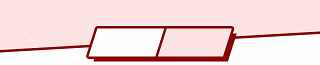
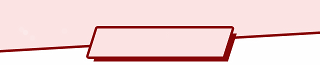
Adds the ability to submit an order

Changed region(s): [[0.2812, 0.4308, 0.5312, 0.8923]]

diff --git a/MasterViewController.m b/MasterViewController.m
@@ -12,7 +12,9 @@
 #import "LocationTabViewController.h"
 #import "OrderTabViewController.h"
 #import "FavoritesViewController.h"
+#import "Order.h"
 #import "OrderManager.h"
+#import "PaymentStack.h"
 #import "AppData.h"
 #import "CustomTabBarController.h"
 
@@ -91,6 +93,8 @@
     
     OrderTabViewController *orderTabViewController = [[OrderTabViewController alloc] initWithOrderManager:[appData theOrderManager]];
     
+    [[NSNotificationCenter defaultCenter] addObserver:self selector:@selector(placeOrder:) name:ORDER_PLACEMENT_REQUESTED object:[appData theOrderManager]];
+    
     UINavigationController *orderTabNavigationController = [[UINavigationController alloc] initWithRootViewController:orderTabViewController];
     [orderTabNavigationController setHidesBottomBarWhenPushed:YES];
     
@@ -121,6 +125,35 @@
     [masterView putUpLoadingView];
     [appData initializeFromServer];
     [masterView performSelector:@selector(dissolveLoadingView) withObject:nil afterDelay:2];
+}
+
+-(void) placeOrder:(NSNotification *) aNotification
+{
+    if ([[aNotification object] isKindOfClass:[OrderManager class]]) {
+        
+        PaymentStack* paymentStack = 
+        [[PaymentStack alloc] initWithOrder:[[aNotification object] thisOrder] locationState:[appData locationState]
+                               successBlock:^{
+                                   //Push the current order on the history list
+                                   [[appData ordersHistory] addObject:[[aNotification object] thisOrder]];
+                                   if ([[[aNotification object] thisOrder] isEffectivelyEqual:[[appData theOrderManager] thisOrder]])
+                                   {
+                                       //Allocate a new order
+                                       [[appData theOrderManager] setOrder:[[Order alloc] init]];
+                                   }
+                               }
+                            completionBlock:^{
+                                [self dismissModalViewControllerAnimated:YES];
+                            } 
+                          cancellationBlock:^{
+                              [self dismissModalViewControllerAnimated:YES];
+                          }];
+        modalController = [paymentStack navigationController];
+        [self presentModalViewController:modalController animated:YES];
+    }
+    else {
+        CLLog(LOG_LEVEL_ERROR, @"An object not of type OrderManager was sent to MasterViewController's placeOrder:  omgwtfhax. That is all.");
+    }
 }
 
 @end

diff --git a/OrderSectionFooterView.m b/OrderSectionFooterView.m
@@ -8,13 +8,11 @@
 
 #import "OrderSectionFooterView.h"
 
-NSString *EDIT_BUTTON_PRESSED = @"EDIT_BUTTON_PRESSED";
 NSString *PLACE_BUTTON_PRESSED = @"PLACE_BUTTON_PRESSED";
 
 @implementation OrderSectionFooterView
 
 @synthesize placeLabel;
-@synthesize editLabel;
 
 - (id)initWithFrame:(CGRect)frame
 {
@@ -25,34 +23,19 @@ NSString *PLACE_BUTTON_PRESSED = @"PLACE_BUTTON_PRESSED";
         [self addSubview:footerImage];
         
         placeLabel = [UIButton buttonWithType:UIButtonTypeCustom];
-        editLabel = [UIButton buttonWithType:UIButtonTypeCustom];
         
-        [placeLabel setFrame:CGRectMake(96, 27, 60, 30)];
+        [placeLabel setFrame:CGRectMake(102, 27, 120, 30)];
         [placeLabel setTitleColor:[UIColor blackColor] forState:UIControlStateNormal];
         [[placeLabel titleLabel] setFont:[UIFont fontWithName:@"AmericanTypewriter" size:20]];
         [[placeLabel titleLabel] setTextColor:[UIColor blackColor]];
         [placeLabel setBackgroundColor:[UIColor clearColor]];
-        [placeLabel setTitle:@"Place" forState:UIControlStateNormal];
+        [placeLabel setTitle:@"Place Order" forState:UIControlStateNormal];
         
-        [editLabel setFrame:CGRectMake(164, 27, 60, 30)];
-        [editLabel setTitleColor:[UIColor blackColor] forState:UIControlStateNormal];
-        [[editLabel titleLabel] setFont:[UIFont fontWithName:@"AmericanTypewriter" size:20]];
-        [[editLabel titleLabel] setTextColor:[UIColor blackColor]];
-        [editLabel setBackgroundColor:[UIColor clearColor]];
-        [editLabel setTitle:@"Edit" forState:UIControlStateNormal];
-        
-        [editLabel addTarget:self action:@selector(editButtonPressed) forControlEvents:UIControlEventTouchUpInside];
         [placeLabel addTarget:self action:@selector(placeButtonPressed) forControlEvents:UIControlEventTouchUpInside];
         
-        [self addSubview:editLabel];
         [self addSubview:placeLabel];
     }
     return self;
-}
-
--(void) editButtonPressed
-{
-    [[NSNotificationCenter defaultCenter] postNotificationName:EDIT_BUTTON_PRESSED object:self];
 }
 
 -(void) placeButtonPressed

diff --git a/OrderTabViewController.m b/OrderTabViewController.m
@@ -19,6 +19,8 @@
 #import "Item.h"
 #import "Menu.h"
 
+NSString *ORDER_PLACEMENT_REQUESTED = @"CroutonLabs/OrderPlacementRequested";
+
 @implementation OrderTabViewController
 
 -(id)initWithOrderManager:(OrderManager *)anOrderManager
@@ -30,7 +32,6 @@
         orderRenderer = [[ShinyOrderTabRenderer alloc] initWithOrderManager:theOrderManager];
         
         [[NSNotificationCenter defaultCenter] addObserver:self selector:@selector(updateOrderSection) name:ORDER_MODIFIED object:[theOrderManager thisOrder]];
-        [[NSNotificationCenter defaultCenter] addObserver:self selector:@selector(editButtonPressed) name:EDIT_BUTTON_PRESSED object:orderRenderer];
         [[NSNotificationCenter defaultCenter] addObserver:self selector:@selector(placeButtonPressed) name:PLACE_BUTTON_PRESSED object:orderRenderer];
         
         [[orderView orderTable] setDelegate:self];
@@ -198,8 +199,13 @@
 
 -(void) addItem:(NSNotification *) notification
 {
+    if (([[[theOrderManager thisOrder] itemList] count] + [[[theOrderManager thisOrder] comboList] count]) == 0) {
+        [[orderView orderTable] scrollToRowAtIndexPath:[NSIndexPath indexPathForRow:0 inSection:1] atScrollPosition:UITableViewScrollPositionTop animated:YES];
+    }
+    else {
+        [[orderView orderTable] scrollToRowAtIndexPath:[NSIndexPath indexPathForRow:0 inSection:0] atScrollPosition:UITableViewScrollPositionTop animated:YES];
+    }
     [[theOrderManager thisOrder] addItem:[(ShinyItemViewController *)[notification object] theItem]];
-    [[orderView orderTable] scrollToRowAtIndexPath:[NSIndexPath indexPathForRow:0 inSection:0] atScrollPosition:UITableViewScrollPositionTop animated:YES];
 }
 
 -(void) deleteItem:(NSNotification *) notification
@@ -217,12 +223,7 @@
 
 -(void) placeButtonPressed
 {
-    //Stuff here to do the placing of the order
-}
-
--(void) editButtonPressed
-{
-    [[orderView orderTable] setEditing:YES animated:YES];
+    [[NSNotificationCenter defaultCenter] postNotificationName:ORDER_PLACEMENT_REQUESTED object:theOrderManager];
 }
 
 @end

diff --git a/ShinyOrderTabRenderer.m b/ShinyOrderTabRenderer.m
@@ -116,7 +116,6 @@
         
         
         OrderSectionFooterView *footerView = [[OrderSectionFooterView alloc] init];
-        [[NSNotificationCenter defaultCenter] addObserver:self selector:@selector(editButtonPressed) name:EDIT_BUTTON_PRESSED object:footerView];
         [[NSNotificationCenter defaultCenter] addObserver:self selector:@selector(placeButtonPressed) name:PLACE_BUTTON_PRESSED object:footerView];
         [orderSectionContents addObject:footerView];
     }
@@ -132,11 +131,6 @@
         return YES;
     }
     return NO;
-}
-
--(void) editButtonPressed
-{
-    [[NSNotificationCenter defaultCenter] postNotificationName:EDIT_BUTTON_PRESSED object:self];
 }
 
 -(void) placeButtonPressed

diff --git a/OrderSectionFooterView.h b/OrderSectionFooterView.h
@@ -8,18 +8,15 @@
 
 #import <UIKit/UIKit.h>
 
-extern NSString *EDIT_BUTTON_PRESSED;
 extern NSString *PLACE_BUTTON_PRESSED;
 
 @interface OrderSectionFooterView : UIView
 {
     UIImageView *footerImage;
     UIButton *placeLabel;
-    UIButton *editLabel;
     
 }
 
 @property (retain) UIButton *placeLabel;
-@property (retain) UIButton *editLabel;
 
 @end

diff --git a/AvocadoTest1/AppDelegate.m b/AvocadoTest1/AppDelegate.m
@@ -70,7 +70,6 @@
 - (void)applicationWillEnterForeground:(UIApplication *)application
 {
     // WE NEED OUR COOKIES, AT ALL TIMES
-    [page reloadData];
     [[NSHTTPCookieStorage sharedHTTPCookieStorage] setCookieAcceptPolicy:NSHTTPCookieAcceptPolicyAlways];
     /*
     [page initiateMenuRefresh];

diff --git a/MasterViewController.h b/MasterViewController.h
@@ -12,6 +12,9 @@
 
 @interface MasterViewController : UIViewController
 {
+    //Yep, it's a hack, but iOS wants do dealloc my shit
+    //behind my back. Let's dance iOS, let's dance.
+    __block UINavigationController* modalController;
     MasterView *masterView;
     AppData *appData;
 }

diff --git a/OrderTabViewController.h b/OrderTabViewController.h
@@ -11,6 +11,8 @@
 @class OrderTabView;
 @class ShinyOrderTabRenderer;
 
+extern NSString *ORDER_PLACEMENT_REQUESTED;
+
 @interface OrderTabViewController : UIViewController <UITableViewDelegate>
 {
     OrderManager *theOrderManager;
